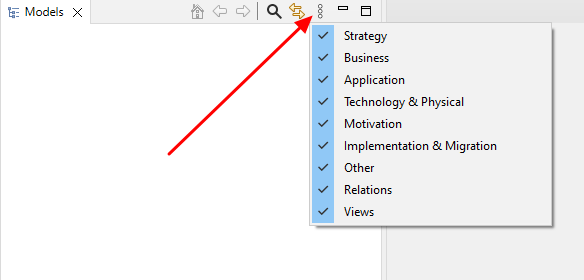
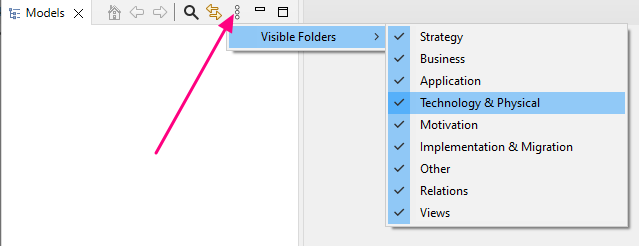
[Model Tree] Add top-level folder filters part 2
- Use a sub-menu to make it clearer what these do

diff --git a/com.archimatetool.help/help/Text/model_tree_working.html b/com.archimatetool.help/help/Text/model_tree_working.html
@@ -78,7 +78,7 @@
     
     <h2>Hiding Folders</h2>
 
-    <p>It is possible to hide top-level folders in the Model Tree. A common use case is that the "Relations" folder's contents might get very long and unwieldy. To hide a folder click the drop-down menu in the Model Tree toolbar and tick or untick the folder you wish to hide or show.</p>
+    <p>It is possible to hide top-level folders in the Model Tree. A common use case is that the "Relations" folder's contents might get very long and unwieldy. To hide a folder click the drop-down menu in the Model Tree toolbar and tick or untick the folder you wish to hide or show in the "Visible Folders" sub-menu.</p>
     <img src="../Images/model-tree-folderfilter.png"/>
     <p class="caption">Showing or hiding top-level folders</p>
 

diff --git a/com.archimatetool.editor/src/com/archimatetool/editor/views/tree/TreeModelView.java b/com.archimatetool.editor/src/com/archimatetool/editor/views/tree/TreeModelView.java
@@ -617,15 +617,18 @@ implements ITreeModelView, IUIRequestListener {
             }
         }
         
-        manager.add(new FolderFilterAction(FolderType.STRATEGY));
-        manager.add(new FolderFilterAction(FolderType.BUSINESS));
-        manager.add(new FolderFilterAction(FolderType.APPLICATION));
-        manager.add(new FolderFilterAction(FolderType.TECHNOLOGY));
-        manager.add(new FolderFilterAction(FolderType.MOTIVATION));
-        manager.add(new FolderFilterAction(FolderType.IMPLEMENTATION_MIGRATION));
-        manager.add(new FolderFilterAction(FolderType.OTHER));
-        manager.add(new FolderFilterAction(FolderType.RELATIONS));
-        manager.add(new FolderFilterAction(FolderType.DIAGRAMS));
+        MenuManager filterMenu = new MenuManager(Messages.TreeModelView_5);
+        manager.add(filterMenu);
+        
+        filterMenu.add(new FolderFilterAction(FolderType.STRATEGY));
+        filterMenu.add(new FolderFilterAction(FolderType.BUSINESS));
+        filterMenu.add(new FolderFilterAction(FolderType.APPLICATION));
+        filterMenu.add(new FolderFilterAction(FolderType.TECHNOLOGY));
+        filterMenu.add(new FolderFilterAction(FolderType.MOTIVATION));
+        filterMenu.add(new FolderFilterAction(FolderType.IMPLEMENTATION_MIGRATION));
+        filterMenu.add(new FolderFilterAction(FolderType.OTHER));
+        filterMenu.add(new FolderFilterAction(FolderType.RELATIONS));
+        filterMenu.add(new FolderFilterAction(FolderType.DIAGRAMS));
     }
     
     /**

diff --git a/com.archimatetool.editor/src/com/archimatetool/editor/views/tree/Messages.java b/com.archimatetool.editor/src/com/archimatetool/editor/views/tree/Messages.java
@@ -23,6 +23,8 @@ public class Messages extends NLS {
 
     public static String TreeModelView_4;
 
+    public static String TreeModelView_5;
+
     public static String TreeModelViewerDragDropHandler_0;
     static {
         // initialize resource bundle
